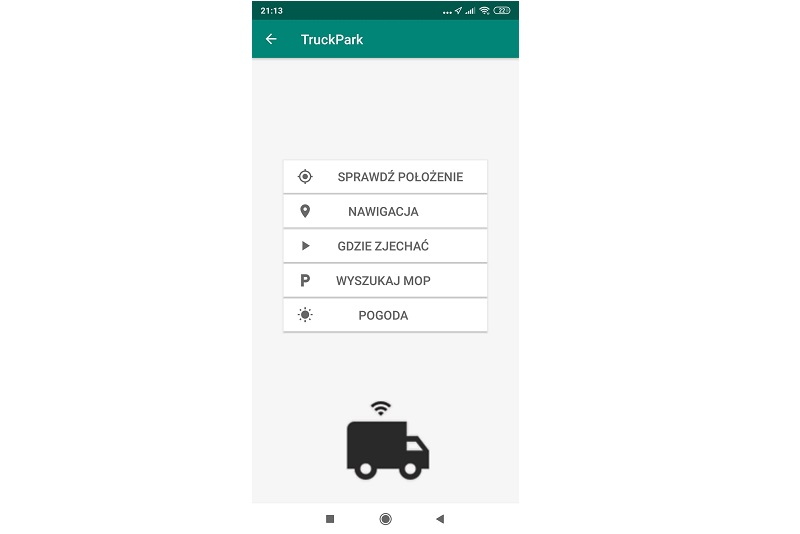
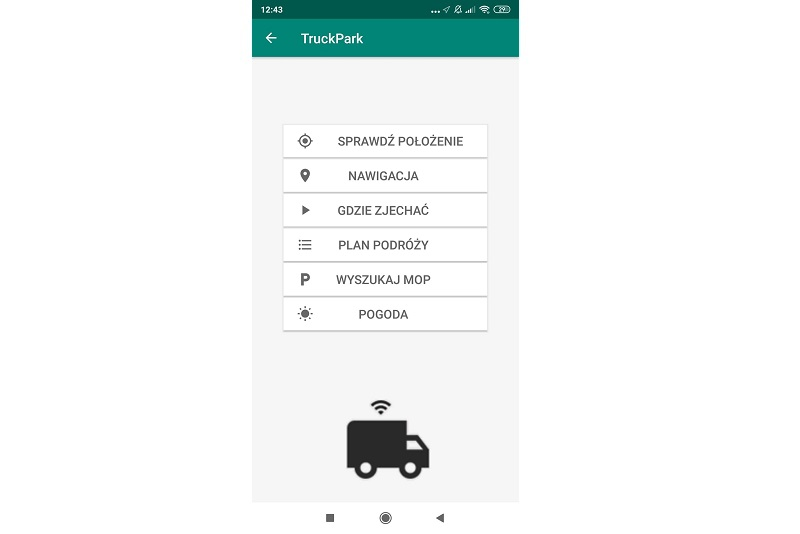
Update README file and add screen - update main menu screen.

diff --git a/README.md b/README.md
@@ -48,7 +48,7 @@ which let a user choose a specific functionality.
 
 ![Route schedule](./app/docs/route_schedule_form.jpg)
 
-### Optiomalize driver's time
+### Where to pull off
 > It the main and the most usable feature in this application. After inputting the route schedule in previous functionality a user has access to his routes visible on a map. At the bottom of the view, the user has information about travel parameters - origin, destination, remaining time and distance. Polygon of every fragment is clickable and after clicking the info form is displayed. A pop-up contains information about the fragment's origin, destination, duration, and distance. In the background, the main algorithm is launched every few minutes. Finding the closest MOPs algorithm is fully activated half an hour before booked break time (currently beak times are static - 4.5, 6 and 8 hours after workday start). Working of the algorithm could be divided into the following steps:
 * Creating a polygon on the right side of the planned road (width- 15 meters). The main goal of this activity is the elimination of places that are on the wrong side to the direction of driving.
 * Reducing MOP's set to items that are inside the polygon.
